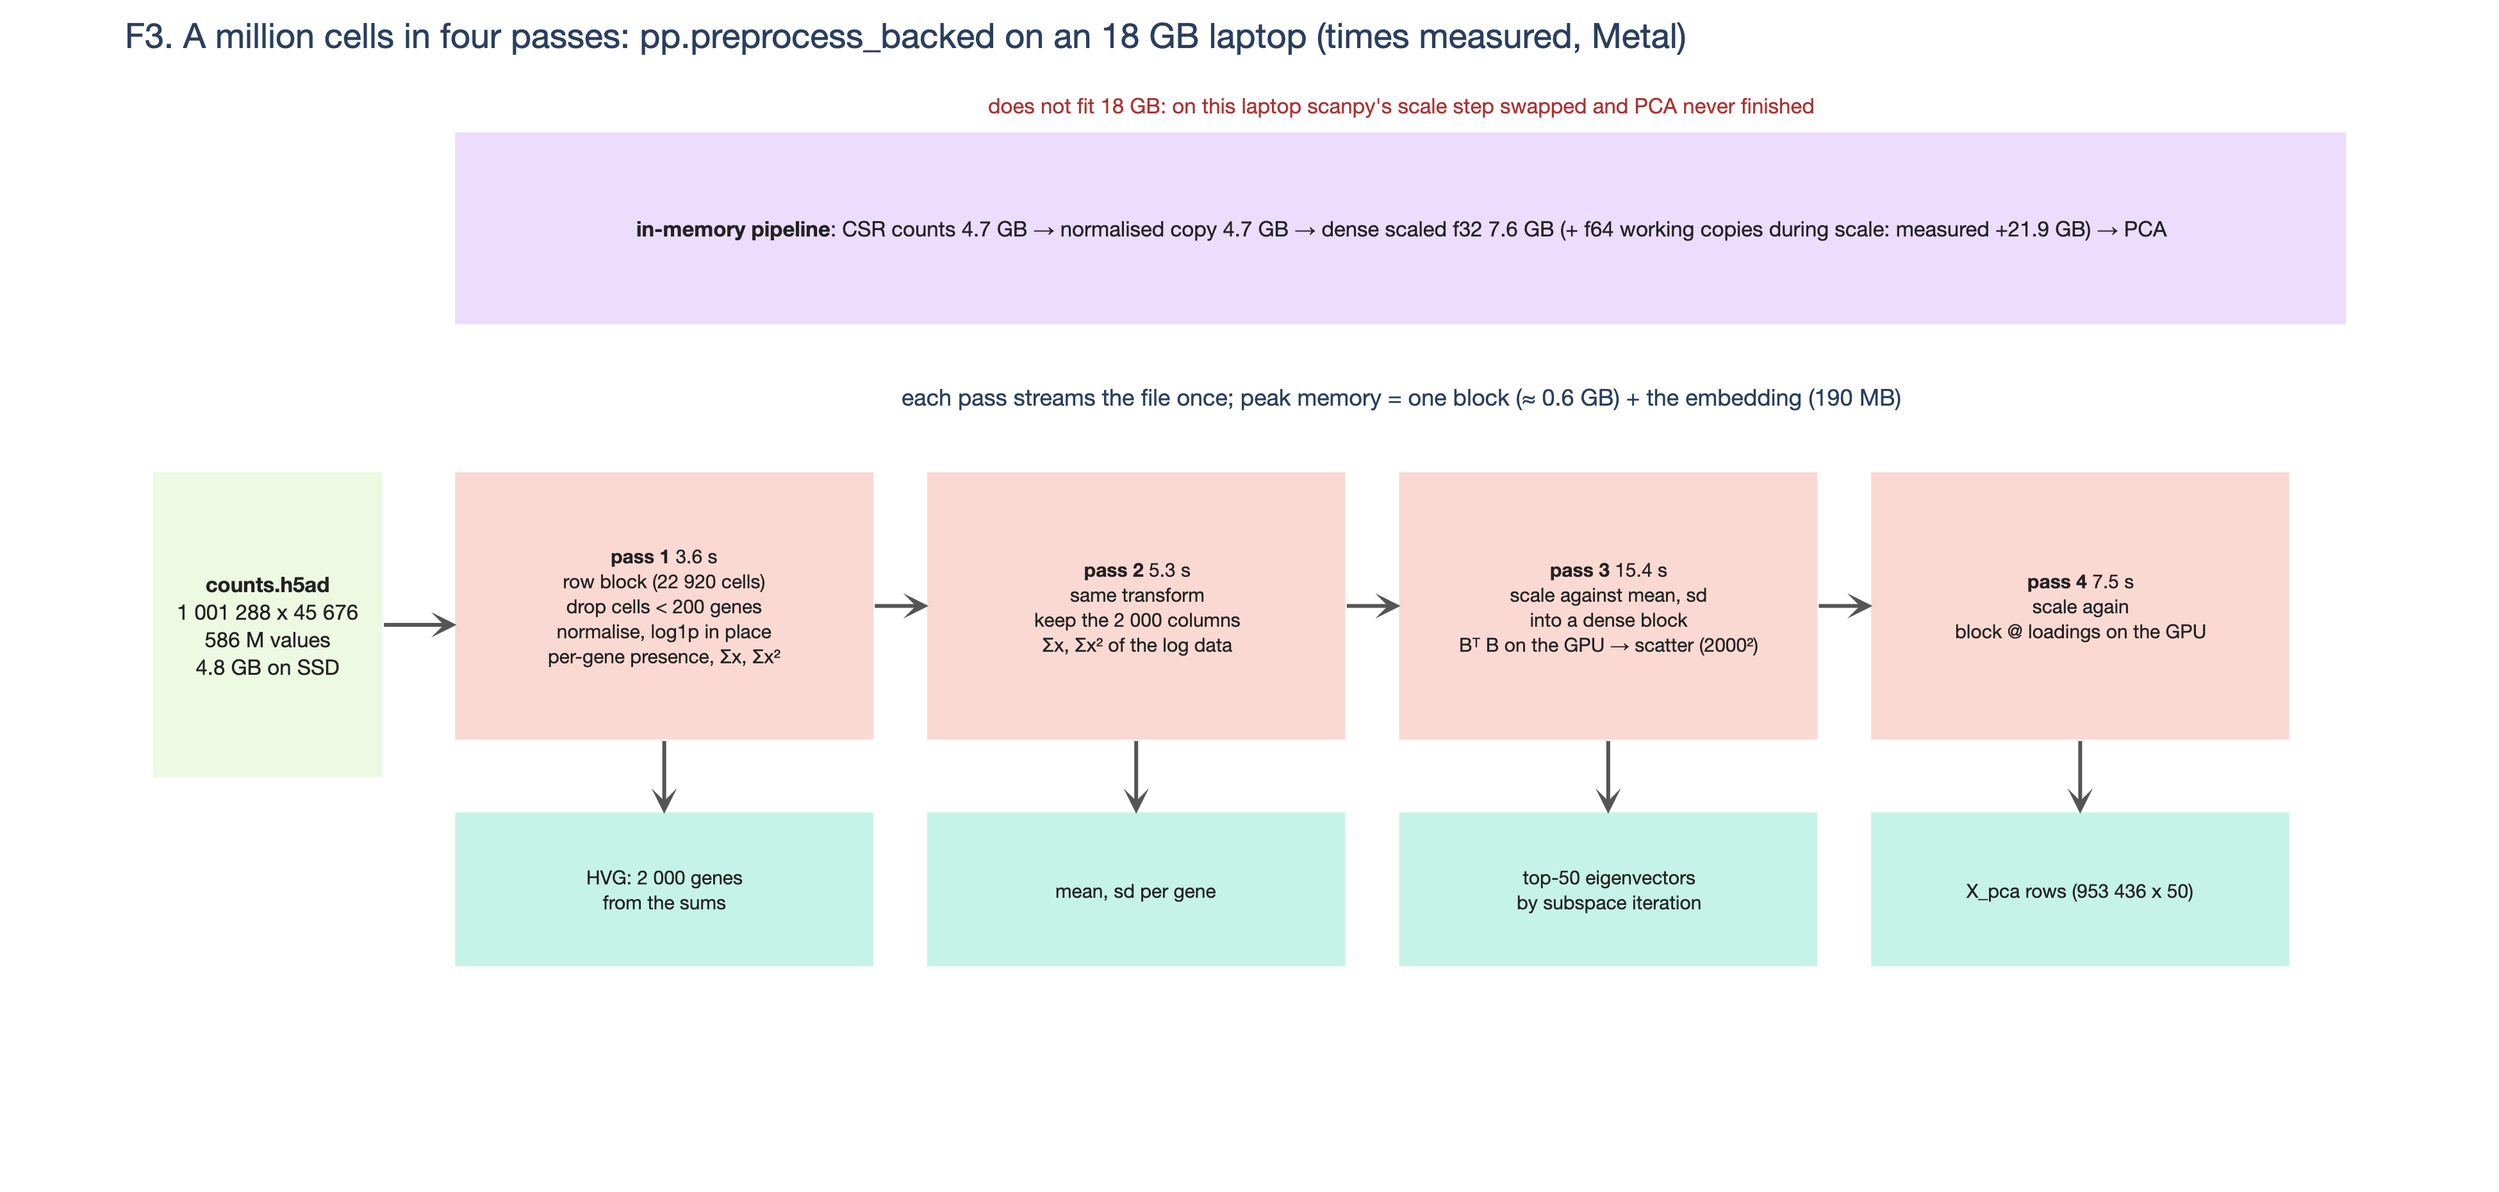
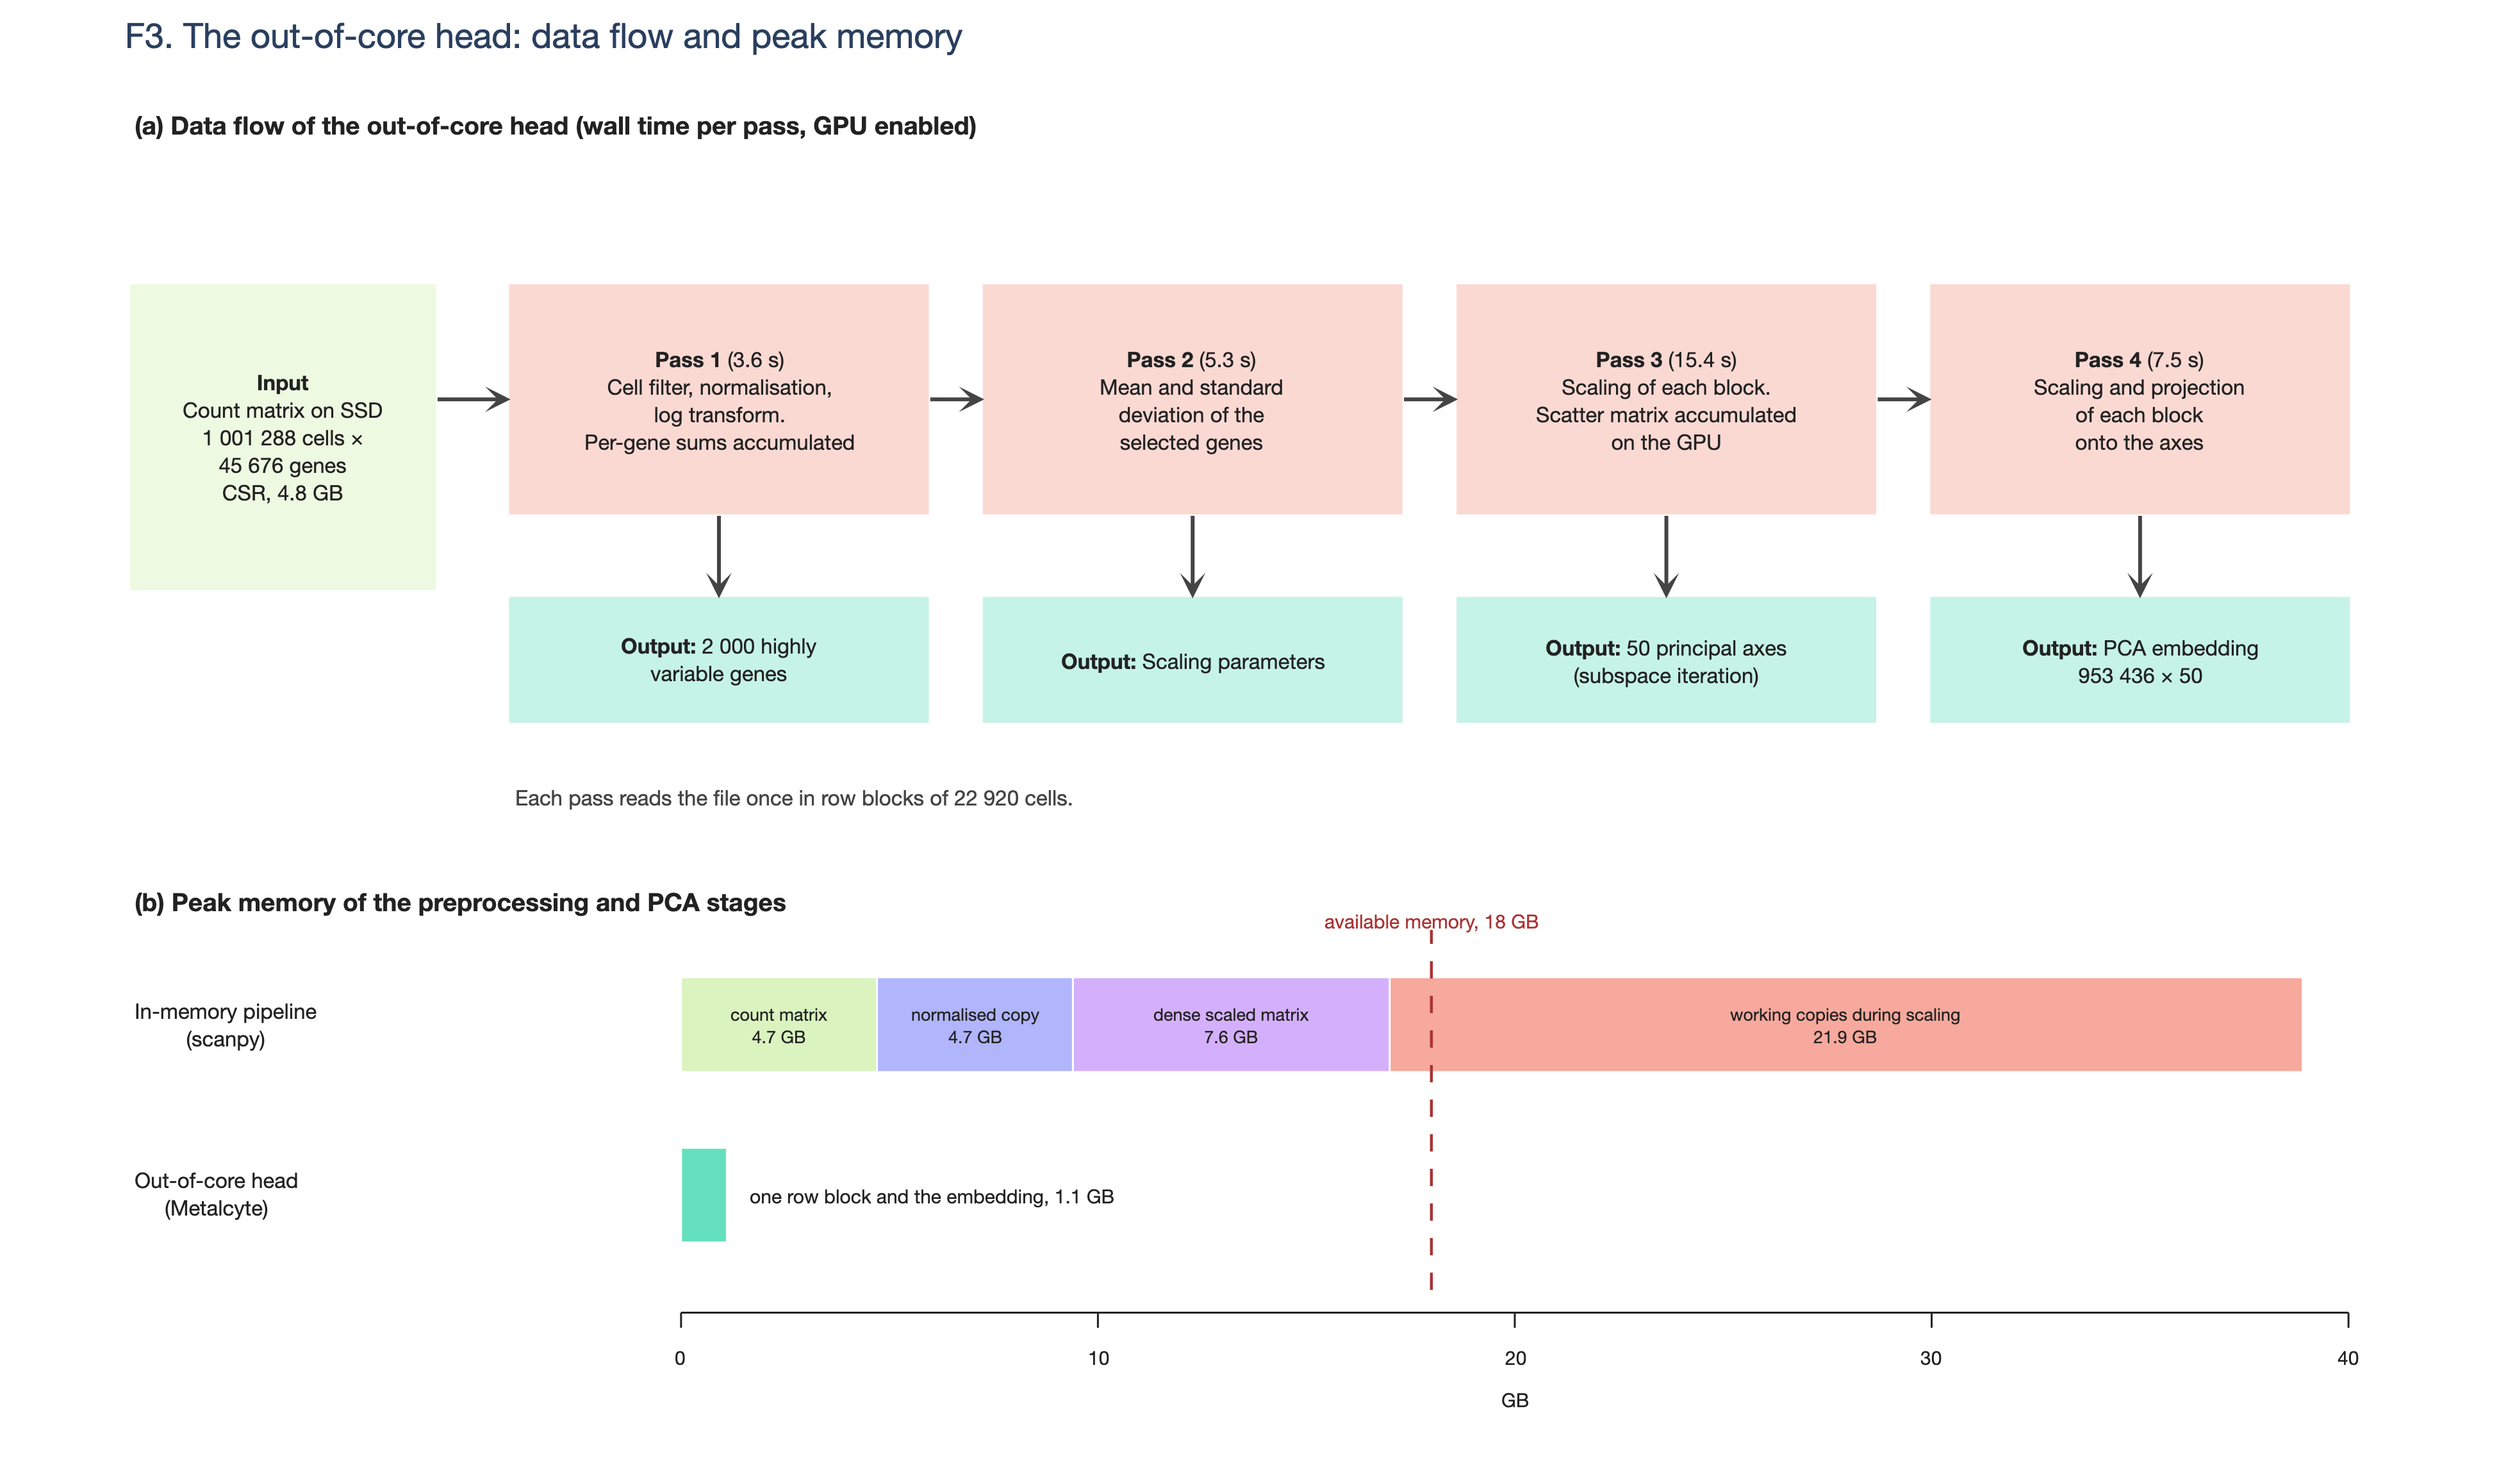
Figure 4 as a data-flow panel and a peak-memory panel

diff --git a/benches/figures.py b/benches/figures.py
@@ -274,77 +274,69 @@ def f2_bytes():
 
 
 def f3_streaming():
-    """The four passes of `pp.preprocess_backed` next to what an in-memory pipeline holds."""
+    """Out-of-core head: (a) data flow of the four passes, (b) peak memory against the in-memory pipeline."""
     fig = go.Figure()
-    blank_axes(fig, 120, 56)
+    blank_axes(fig, 120, 70)
     c = COLORS
-    box(
-        fig,
-        2,
-        20,
-        14,
-        36,
-        "<b>counts.h5ad</b><br>1 001 288 x 45 676<br>586 M values<br>4.8 GB on SSD",
-        c[7],
-        size=11,
-    )
+    grey = "#444"
+
+    def label(x, y, text, size=12, anchor="left", color="#222", bold=False):
+        fig.add_annotation(x=x, y=y, text=f"<b>{text}</b>" if bold else text, showarrow=False,
+                           xanchor=anchor, font=dict(size=size, color=color))
+
+    # ---- (a) data flow
+    label(1, 68.5, "(a) Data flow of the out-of-core head (wall time per pass, GPU enabled)", 13, bold=True)
+    box(fig, 1, 44, 17, 60,
+        "<b>Input</b><br>Count matrix on SSD<br>1 001 288 cells ×<br>45 676 genes<br>CSR, 4.8 GB", c[7], size=11)
     passes = [
-        (
-            "pass 1",
-            "row block (22 920 cells)<br>drop cells < 200 genes<br>normalise, log1p in place<br>per-gene presence, Σx, Σx²",  # noqa: E501
-            "HVG: 2 000 genes<br>from the sums",
-            3.6,
-        ),
-        (
-            "pass 2",
-            "same transform<br>keep the 2 000 columns<br>Σx, Σx² of the log data",
-            "mean, sd per gene",
-            5.3,
-        ),
-        (
-            "pass 3",
-            "scale against mean, sd<br>into a dense block<br>Bᵀ B on the GPU → scatter (2000²)",
-            "top-50 eigenvectors<br>by subspace iteration",
-            15.4,
-        ),
-        ("pass 4", "scale again<br>block @ loadings on the GPU", "X_pca rows (953 436 x 50)", 7.5),
+        ("Pass 1", "3.6 s", "Cell filter, normalisation,<br>log transform.<br>Per-gene sums accumulated",
+         "2 000 highly<br>variable genes"),
+        ("Pass 2", "5.3 s", "Mean and standard<br>deviation of the<br>selected genes",
+         "Scaling parameters"),
+        ("Pass 3", "15.4 s", "Scaling of each block.<br>Scatter matrix accumulated<br>on the GPU",
+         "50 principal axes<br>(subspace iteration)"),
+        ("Pass 4", "7.5 s", "Scaling and projection<br>of each block<br>onto the axes",
+         "PCA embedding<br>953 436 × 50"),
     ]
-    x = 18
-    for name, inside, out, secs in passes:
-        box(fig, x, 22, x + 22, 36, f"<b>{name}</b> {secs:.1f} s<br>{inside}", c[1], size=10)
-        box(fig, x, 10, x + 22, 18, out, c[2], size=10)
-        arrow(fig, x + 11, 22, x + 11, 18)
-        arrow(fig, 14, 28, x, 28) if x == 18 else arrow(fig, x - 3, 29, x, 29)
+    x = 21
+    for name, secs, inside, out in passes:
+        box(fig, x, 48, x + 22, 60, f"<b>{name}</b> ({secs})<br>{inside}", c[1], size=11)
+        box(fig, x, 37, x + 22, 43.5, f"<b>Output:</b> {out}", c[2], size=11)
+        arrow(fig, x + 11, 48, x + 11, 43.5, color=grey)
+        arrow(fig, (17 if x == 21 else x - 3), 54, x, 54, color=grey)
         x += 25
-    fig.add_annotation(
-        x=68,
-        y=40,
-        text="each pass streams the file once; peak memory = one block (≈ 0.6 GB) + the embedding (190 MB)",  # noqa: E501
-        showarrow=False,
-        font=dict(size=12),
-    )
-    # what scanpy would hold
-    box(
-        fig,
-        18,
-        44,
-        118,
-        54,
-        "<b>in-memory pipeline</b>: CSR counts 4.7 GB → normalised copy 4.7 GB → dense scaled f32 7.6 GB (+ f64 working copies during scale: measured +21.9 GB) → PCA",  # noqa: E501
-        c[3],
-        size=11,
-    )
-    fig.add_annotation(
-        x=68,
-        y=55.5,
-        text="does not fit 18 GB: on this laptop scanpy's scale step swapped and PCA never finished",  # noqa: E501
-        showarrow=False,
-        font=dict(size=11, color="#a33"),
-    )
-    fig.update_layout(
-        title="F3. A million cells in four passes: the out-of-core head on an 18 GB laptop (times measured, Metal)"  # noqa: E501
-    )
-    save(fig, "F3_streaming", 1300, 620)
+    label(21, 33, "Each pass reads the file once in row blocks of 22 920 cells.", 11, color=grey)
+
+    # ---- (b) peak memory
+    label(1, 27.5, "(b) Peak memory of the preprocessing and PCA stages", 13, bold=True)
+    x0, x1, gmax = 30, 118, 40.0
+    sx = lambda gb: x0 + (x1 - x0) * gb / gmax
+    # axis
+    for gb in range(0, 41, 10):
+        fig.add_shape(type="line", x0=sx(gb), y0=5, x1=sx(gb), y1=5.8, line=dict(color="#222", width=1))
+        label(sx(gb), 3.5, f"{gb}", 10, anchor="center")
+    fig.add_shape(type="line", x0=x0, y0=5.8, x1=x1, y1=5.8, line=dict(color="#222", width=1))
+    label((x0 + x1) / 2, 1.2, "GB", 10, anchor="center")
+    # in-memory pipeline: stacked segments
+    segs = [("count matrix", 4.7, c[7]), ("normalised copy", 4.7, c[0]),
+            ("dense scaled matrix", 7.6, c[3]), ("working copies during scaling", 21.9, c[1])]
+    label(1, 21, "In-memory pipeline<br>(scanpy)", 11)
+    acc = 0.0
+    for name, gb, col in segs:
+        fig.add_shape(type="rect", x0=sx(acc), y0=18.5, x1=sx(acc + gb), y1=23.5,
+                      fillcolor=col, opacity=0.5, line=dict(color="white", width=1))
+        label((sx(acc) + sx(acc + gb)) / 2, 21, f"{name}<br>{gb} GB", 9, anchor="center")
+        acc += gb
+    # out-of-core head
+    label(1, 12, "Out-of-core head<br>(Metalcyte)", 11)
+    fig.add_shape(type="rect", x0=sx(0), y0=9.5, x1=sx(1.1), y1=14.5,
+                  fillcolor=c[2], opacity=0.6, line=dict(color="white", width=1))
+    label(sx(1.1) + 1, 12, "one row block and the embedding, 1.1 GB", 10)
+    # available memory
+    fig.add_shape(type="line", x0=sx(18), y0=7, x1=sx(18), y1=26, line=dict(color="#a33", width=1.5, dash="dash"))
+    label(sx(18), 26.5, "available memory, 18 GB", 10, anchor="center", color="#a33")
+    fig.update_layout(title="F3. The out-of-core head: data flow and peak memory")
+    save(fig, "F3_streaming", 1300, 760)
 
 
 # ----------------------------------------------------------------------------- F4..F7 (measured)
